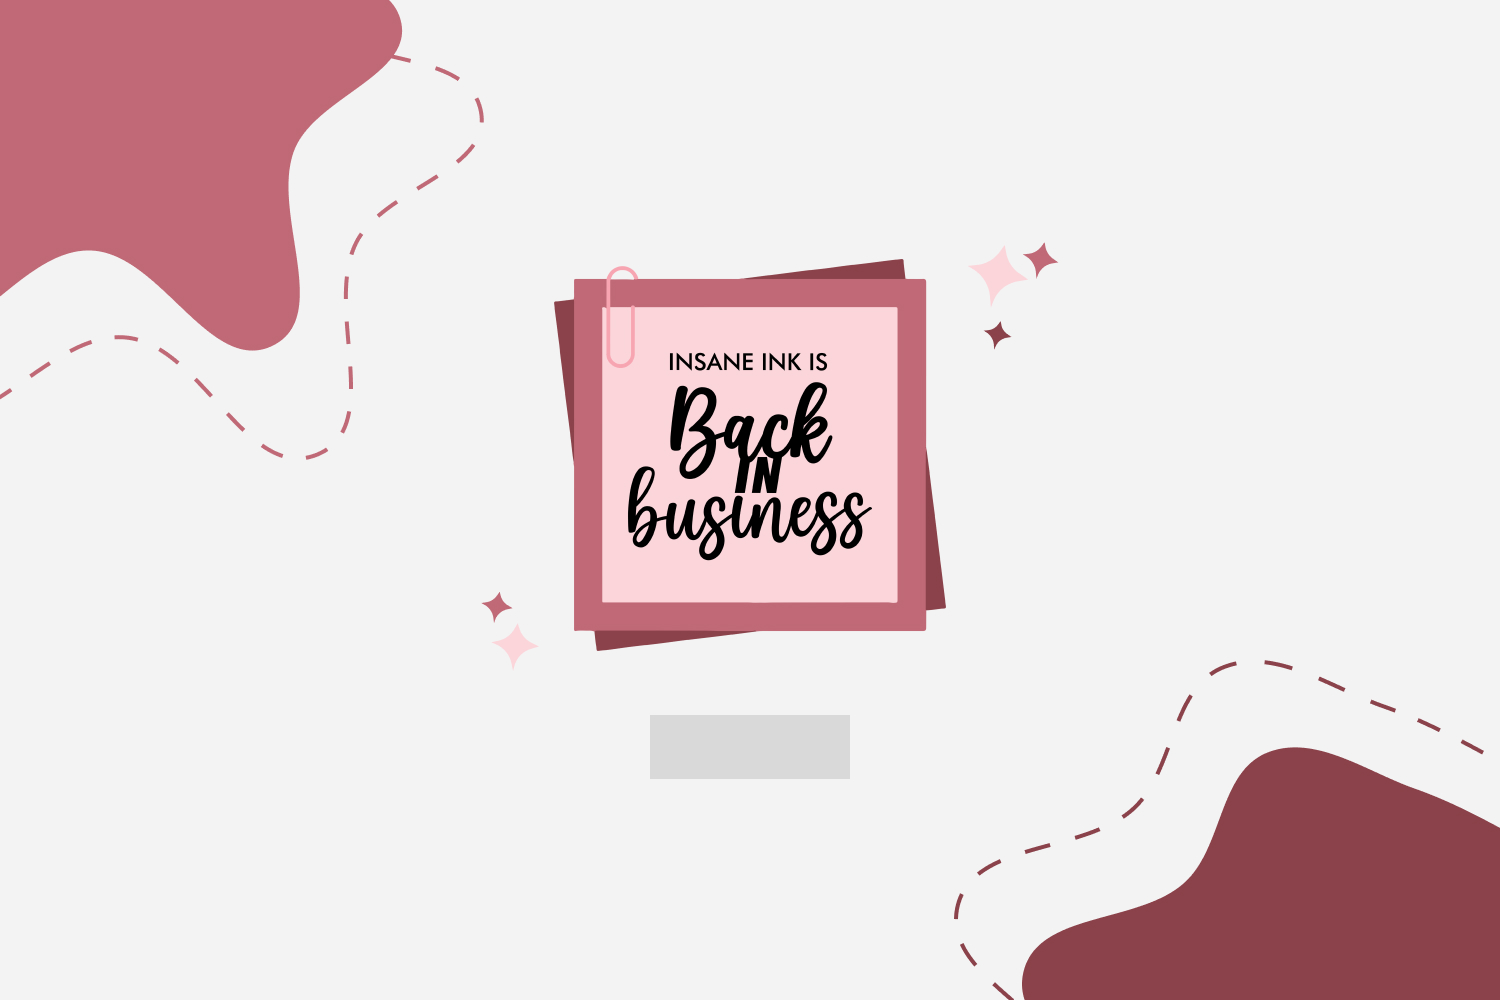
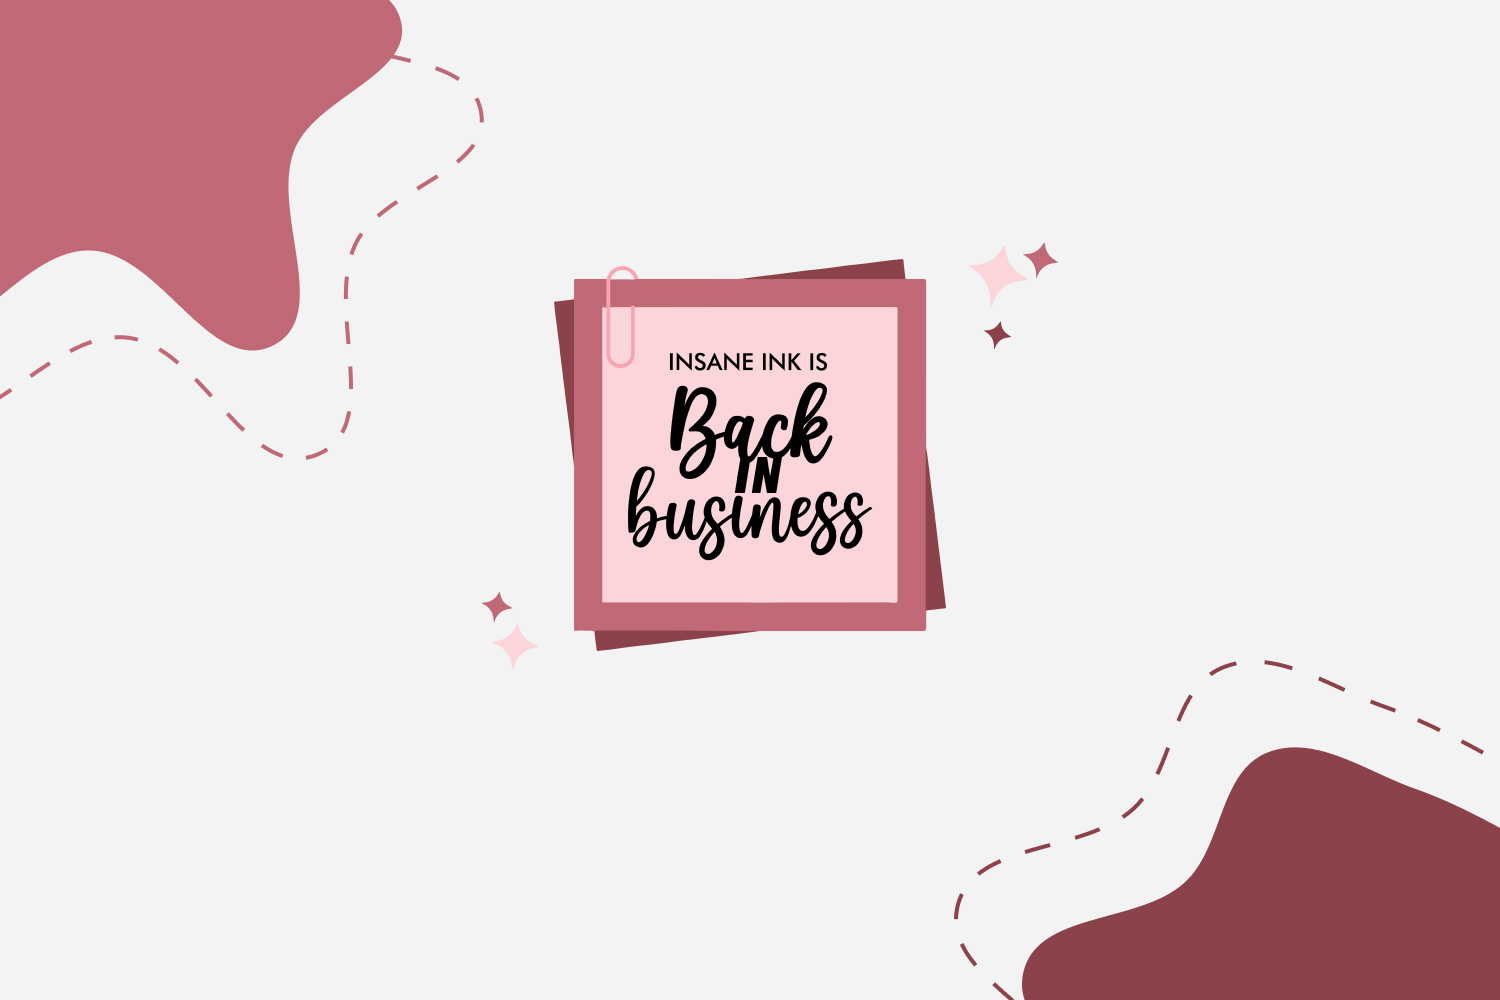
honk if you love jesus

Changed region(s): [[0.4293, 0.713, 0.5827, 0.806]]

diff --git a/src/pages/Home/components/Slider/Slider.js b/src/pages/Home/components/Slider/Slider.js
@@ -6,6 +6,8 @@ import dataSlider from './dataSlider'
 export default function Slider() {
 
     const [slideIndex, setSlideIndex] = useState(1)
+    const GSbutton = document.getElementById("pls");
+    var link;
 
     const nextSlide = () => {
         if(slideIndex !== dataSlider.length){
@@ -14,6 +16,17 @@ export default function Slider() {
         else if (slideIndex === dataSlider.length){
             setSlideIndex(1)
         }
+
+        console.log(slideIndex)
+
+        if(slideIndex == dataSlider.length){
+            link = dataSlider[0].link;
+        }else {
+            link = dataSlider[slideIndex].link;
+        }
+
+        console.log(link)
+        GSbutton.href = link;
     }
 
     const prevSlide = () => {
@@ -23,6 +36,15 @@ export default function Slider() {
         else if (slideIndex === 1){
             setSlideIndex(dataSlider.length)
         }
+
+        if(slideIndex == dataSlider.length){
+            link = dataSlider[0].link;
+        }else {
+            link = dataSlider[slideIndex].link;
+        }
+
+        console.log(link)
+        GSbutton.href = link;
     }
 
     const moveDot = index => {
@@ -30,29 +52,35 @@ export default function Slider() {
     }
 
     return (
-        <div className="container-slider">
-            {dataSlider.map((obj, index) => {
-                return (
-                    <div
-                    key={obj.id}
-                    className={slideIndex === index + 1 ? "slide active-anim" : "slide"}
-                    >
-                        <img 
-                        src={process.env.PUBLIC_URL + `/slideshow/slide${index + 1}.jpg`} 
-                        alt="slider img" onMouseDown={nextSlide}/>
-                    </div>
-                )
-            })}
-            <BtnSlider moveSlide={nextSlide} direction={"next"} />
-            <BtnSlider moveSlide={prevSlide} direction={"prev"}/>
+        <div>
+            <div className="container-slider">
+                {dataSlider.map((obj, index) => {
+                    return (
+                        <div
+                        key={obj.id}
+                        className={slideIndex === index + 1 ? "slide active-anim" : "slide"}
+                        >
+                            <img 
+                            src={process.env.PUBLIC_URL + `/slideshow/slide${index + 1}.jpg`} 
+                            alt="slider img" onMouseDown={function(){nextSlide()}}/>
+                        </div>
+                    )
+                })}
+                <BtnSlider moveSlide={function(){nextSlide()}} direction={"next"} />
+                <BtnSlider moveSlide={function(){prevSlide()}} direction={"prev"}/>
 
-            <div className="container-dots">
-                {Array.from({length: dataSlider.length}).map((item, index) => (
-                    <div 
-                    onClick={() => moveDot(index + 1)}
-                    className={slideIndex === index + 1 ? "dot active" : "dot"}
-                    ></div>
-                ))}
+                <div className="container-dots">
+                    {Array.from({length: dataSlider.length}).map((item, index) => (
+                        <div 
+                        onClick={() => moveDot(index + 1)}
+                        className={slideIndex === index + 1 ? "dot active" : "dot"}
+                        ></div>
+                    ))}
+                </div>
+            </div>
+
+            <div className='container-button'>
+                <a id='pls' href='https://insaneink.com' target="_blank" rel="noreferrer"><button>Get Started</button></a>
             </div>
         </div>
     )

diff --git a/src/pages/Home/components/Slider/Slider.css b/src/pages/Home/components/Slider/Slider.css
@@ -29,6 +29,33 @@
   opacity: 1;
 }
 
+.container-button {
+  justify-content: center;
+  align-items: center;
+  text-align: center; 
+  position: absolute;
+  top: 75%;
+  width: 100%;
+  z-index: 10;
+}
+
+#pls {
+  max-width: 500px;
+  border-radius: 5px;
+}
+
+#pls button {
+  background-color: #D9D9D9;
+  color: #1f1f1f;
+  font-size: 1.02rem;
+  font-weight: 600;
+  padding: 1rem 2.5rem; 
+  border-radius: 5px;
+  border: none;
+  outline: none; 
+  cursor: pointer;
+}
+
 .btn-slide {
   width: 45px;
   height: 45px;
@@ -104,4 +131,10 @@
 
 .dot.active {
   background: #7C2F3F;
+}
+
+@media screen and (max-width: 727px) {
+  .container-button {
+    top: 70%;
+  }
 }

diff --git a/src/pages/Home/components/Slider/dataSlider.js b/src/pages/Home/components/Slider/dataSlider.js
@@ -5,26 +5,26 @@ const dataSlider = [
     id: uuidv4(),
     title: "Back in Business!",
     subTitle: "Opening Message",
-    linkKey: "hto"
+    link: "https://google.com"
   },
   {
     id: uuidv4(),
     title: "Direct to Garment",
     subTitle: "DTG",
-    linkKey: "dtg"
+    link: "https://facebook.com"
   },
   {
     id: uuidv4(),
     title: "Stickers, Posters, and More!",
     subTitle: "Roland",
-    linkKey: "roland"
+    link: "https://youtube.com"
   },
 
   {
     id: uuidv4(),
     title: "Treasure Trove",
     subTitle: "PHHS Merch!",
-    linkKey: "tt"
+    link: "https://jesus.com"
   }
 ];
 

diff --git a/src/components/css/Navbar.css b/src/components/css/Navbar.css
@@ -75,7 +75,7 @@ nav {
 }
 
 .drop-hover.merch:hover {
-  padding-right: 3.77rem;
+  padding-right: 3.9rem;
 }
 
 .drop-hover.merch:hover~.drop.merch {
